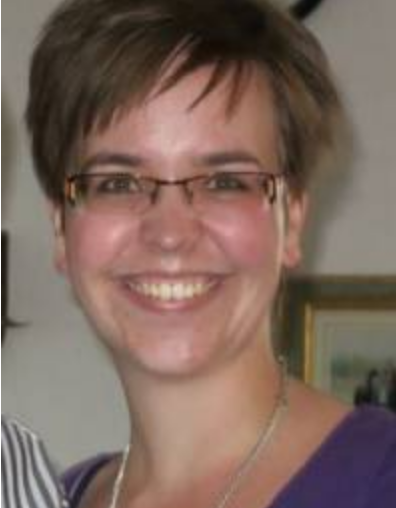
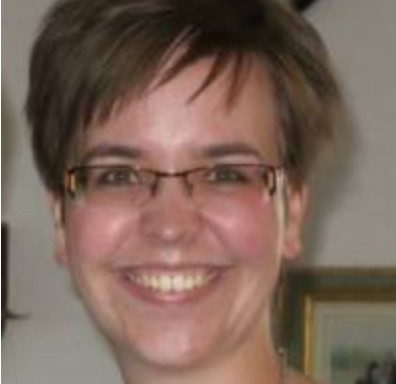
rebuilding site Tue Feb 18 12:13:14 EST 2020

diff --git a/post/writing-technical-content/index.html b/post/writing-technical-content/index.html
@@ -924,7 +924,7 @@ A Markdown aside is useful for displaying notices, hints, or definitions to your
   <div class="media author-card content-widget-hr">
     
       
-      <img class="avatar mr-3 avatar-circle" src="/authors/admin/avatar_hu3e40980ccd95ec842a3987b8452e02fe_257603_270x270_fill_q90_lanczos_center.jpg" alt="Avatar">
+      <img class="avatar mr-3 avatar-circle" src="/authors/admin/avatar_hu1a38708daaac02f6ff377f95c673b847_196622_270x270_fill_q90_lanczos_center.jpg" alt="Avatar">
     
 
     <div class="media-body">

diff --git a/post/jupyter/index.html b/post/jupyter/index.html
@@ -756,7 +756,7 @@ date: 2019-09-01
   <div class="media author-card content-widget-hr">
     
       
-      <img class="avatar mr-3 avatar-circle" src="/authors/admin/avatar_hu3e40980ccd95ec842a3987b8452e02fe_257603_270x270_fill_q90_lanczos_center.jpg" alt="Avatar">
+      <img class="avatar mr-3 avatar-circle" src="/authors/admin/avatar_hu1a38708daaac02f6ff377f95c673b847_196622_270x270_fill_q90_lanczos_center.jpg" alt="Avatar">
     
 
     <div class="media-body">

diff --git a/post/getting-started/index.html b/post/getting-started/index.html
@@ -861,7 +861,7 @@
   <div class="media author-card content-widget-hr">
     
       
-      <img class="avatar mr-3 avatar-circle" src="/authors/admin/avatar_hu3e40980ccd95ec842a3987b8452e02fe_257603_270x270_fill_q90_lanczos_center.jpg" alt="Avatar">
+      <img class="avatar mr-3 avatar-circle" src="/authors/admin/avatar_hu1a38708daaac02f6ff377f95c673b847_196622_270x270_fill_q90_lanczos_center.jpg" alt="Avatar">
     
 
     <div class="media-body">

diff --git a/project/bnlnuclub/index.html b/project/bnlnuclub/index.html
@@ -692,7 +692,7 @@
   <div class="media author-card content-widget-hr">
     
       
-      <img class="avatar mr-3 avatar-circle" src="/authors/admin/avatar_hu3e40980ccd95ec842a3987b8452e02fe_257603_270x270_fill_q90_lanczos_center.jpg" alt="Avatar">
+      <img class="avatar mr-3 avatar-circle" src="/authors/admin/avatar_hu1a38708daaac02f6ff377f95c673b847_196622_270x270_fill_q90_lanczos_center.jpg" alt="Avatar">
     
 
     <div class="media-body">

diff --git a/talk/bnl_het19/index.html b/talk/bnl_het19/index.html
@@ -742,7 +742,7 @@
   <div class="media author-card content-widget-hr">
     
       
-      <img class="avatar mr-3 avatar-circle" src="/authors/admin/avatar_hu3e40980ccd95ec842a3987b8452e02fe_257603_270x270_fill_q90_lanczos_center.jpg" alt="Avatar">
+      <img class="avatar mr-3 avatar-circle" src="/authors/admin/avatar_hu1a38708daaac02f6ff377f95c673b847_196622_270x270_fill_q90_lanczos_center.jpg" alt="Avatar">
     
 
     <div class="media-body">

diff --git a/talk/bnlforum/index.html b/talk/bnlforum/index.html
@@ -742,7 +742,7 @@
   <div class="media author-card content-widget-hr">
     
       
-      <img class="avatar mr-3 avatar-circle" src="/authors/admin/avatar_hu3e40980ccd95ec842a3987b8452e02fe_257603_270x270_fill_q90_lanczos_center.jpg" alt="Avatar">
+      <img class="avatar mr-3 avatar-circle" src="/authors/admin/avatar_hu1a38708daaac02f6ff377f95c673b847_196622_270x270_fill_q90_lanczos_center.jpg" alt="Avatar">
     
 
     <div class="media-body">

diff --git a/talk/fnal2020/index.html b/talk/fnal2020/index.html
@@ -714,7 +714,7 @@
   <div class="media author-card content-widget-hr">
     
       
-      <img class="avatar mr-3 avatar-circle" src="/authors/admin/avatar_hu3e40980ccd95ec842a3987b8452e02fe_257603_270x270_fill_q90_lanczos_center.jpg" alt="Avatar">
+      <img class="avatar mr-3 avatar-circle" src="/authors/admin/avatar_hu1a38708daaac02f6ff377f95c673b847_196622_270x270_fill_q90_lanczos_center.jpg" alt="Avatar">
     
 
     <div class="media-body">

diff --git a/talk/lpthe/index.html b/talk/lpthe/index.html
@@ -740,7 +740,7 @@
   <div class="media author-card content-widget-hr">
     
       
-      <img class="avatar mr-3 avatar-circle" src="/authors/admin/avatar_hu3e40980ccd95ec842a3987b8452e02fe_257603_270x270_fill_q90_lanczos_center.jpg" alt="Avatar">
+      <img class="avatar mr-3 avatar-circle" src="/authors/admin/avatar_hu1a38708daaac02f6ff377f95c673b847_196622_270x270_fill_q90_lanczos_center.jpg" alt="Avatar">
     
 
     <div class="media-body">

diff --git a/authors/admin/index.html b/authors/admin/index.html
@@ -545,7 +545,7 @@
 
       
       
-      <img class="avatar avatar-circle" src="/authors/admin/avatar_hu3e40980ccd95ec842a3987b8452e02fe_257603_270x270_fill_q90_lanczos_center.jpg" alt="Avatar">
+      <img class="avatar avatar-circle" src="/authors/admin/avatar_hu1a38708daaac02f6ff377f95c673b847_196622_270x270_fill_q90_lanczos_center.jpg" alt="Avatar">
       
 
       <div class="portrait-title">

diff --git a/index.html b/index.html
@@ -598,7 +598,7 @@
 
       
       
-      <img class="avatar avatar-circle" src="/authors/admin/avatar_hu3e40980ccd95ec842a3987b8452e02fe_257603_270x270_fill_q90_lanczos_center.jpg" alt="Avatar">
+      <img class="avatar avatar-circle" src="/authors/admin/avatar_hu1a38708daaac02f6ff377f95c673b847_196622_270x270_fill_q90_lanczos_center.jpg" alt="Avatar">
       
 
       <div class="portrait-title">
